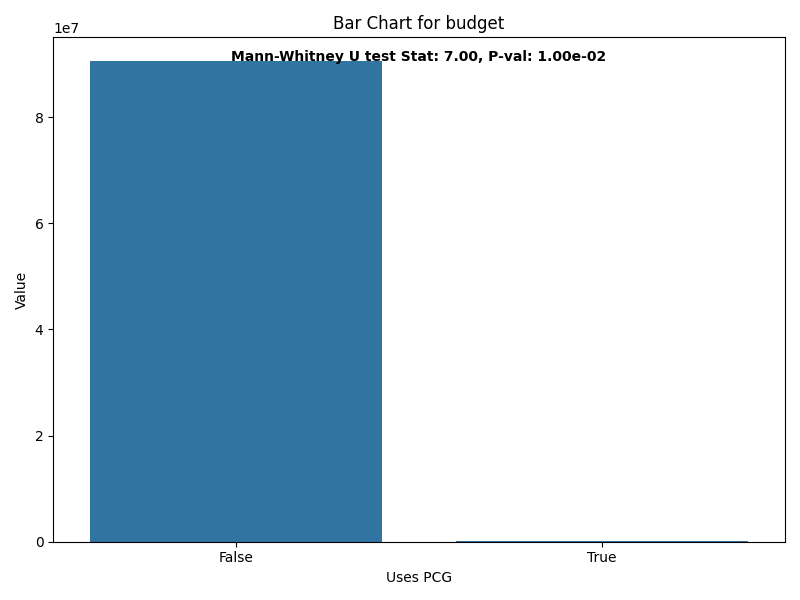
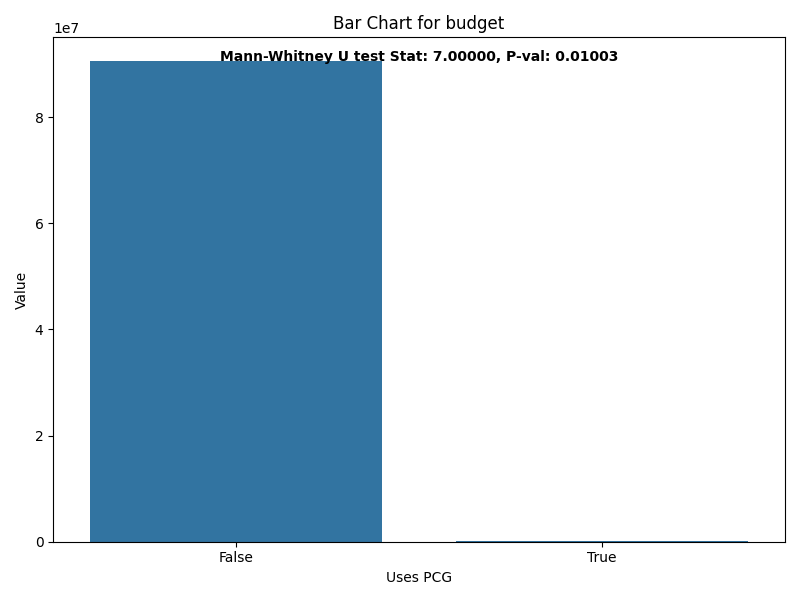
Test

Changed region(s): [[0.2812, 0.06, 0.7812, 0.12]]

diff --git a/run_analysis.py b/run_analysis.py
@@ -41,7 +41,7 @@ def plot_bar_chart(column, stat_values, test_stat, p_val, test_type, title, ylab
     plt.title(title)
     plt.ylabel(ylabel)
     plt.xlabel('Uses PCG')
-    plt.text(0.5, max(stat_values[column]), f'{test_type} Stat: {test_stat:.2f}, P-val: {p_val:.2e}', 
+    plt.text(0.5, max(stat_values[column]), f'{test_type} Stat: {test_stat:.5f}, P-val: {p_val:.5f}', 
              horizontalalignment='center', color='black', weight='semibold')
     plt.tight_layout()
     # Saving the figure
@@ -79,6 +79,13 @@ columns_with_commas = ['budget', 'revenue', 'profit']
 for column in columns_with_commas:
     df[column] = df[column].str.replace(',', '').astype(float)
 
+# Creating directories for saving plots if they don't exist
+histogram_dir = 'results/distributions'
+bar_chart_dir = 'results'
+
+os.makedirs(histogram_dir, exist_ok=True)
+os.makedirs(bar_chart_dir, exist_ok=True)
+
 # Looping through metrics to plot histograms and visualize data distribution
 for metric in metrics:
     plot_histogram(metric, 'pcg', f'Distribution of {metric.replace("_", " ").title()} by PCG Status', 
@@ -103,9 +110,3 @@ for metric in metrics:
 
     # Displaying results and plotting the bar chart
     plot_bar_chart(metric, stat_values, test_stat, test_p_val, test_type, f'Bar Chart for {metric}', 'Value', f'results/{metric}_bar_chart.png')
-
-# Creating directories for saving plots if they don't exist
-histogram_dir = 'results/distributions'
-bar_chart_dir = 'results'
-os.makedirs(histogram_dir, exist_ok=True)
-os.makedirs(bar_chart_dir, exist_ok=True)
